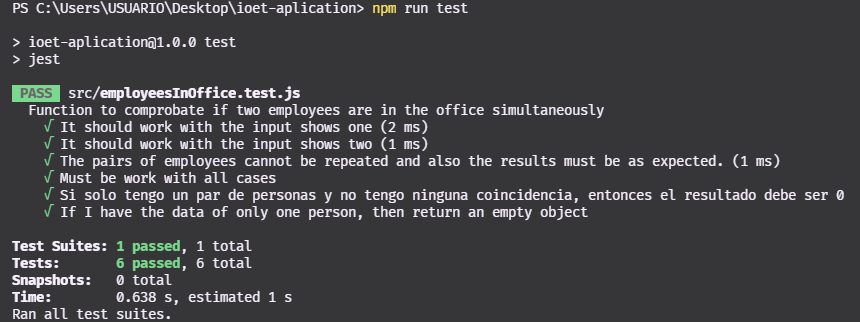
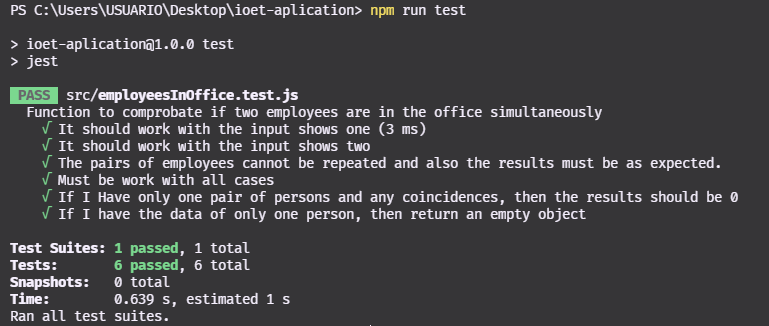
Update all

diff --git a/src/employeesInOffice.test.js b/src/employeesInOffice.test.js
@@ -36,7 +36,7 @@ describe('Function to comprobate if two employees are in the office simultaneous
     });
   });
 
-  test('Si solo tengo un par de personas y no tengo ninguna coincidencia, entonces el resultado debe ser 0', () => {
+  test('If I Have only one pair of persons and any coincidences, then the results should be 0', () => {
     expect(employeesInOffice(arrayOfData[4])).toStrictEqual({
       'PAUL-ANA': 0,
     });
